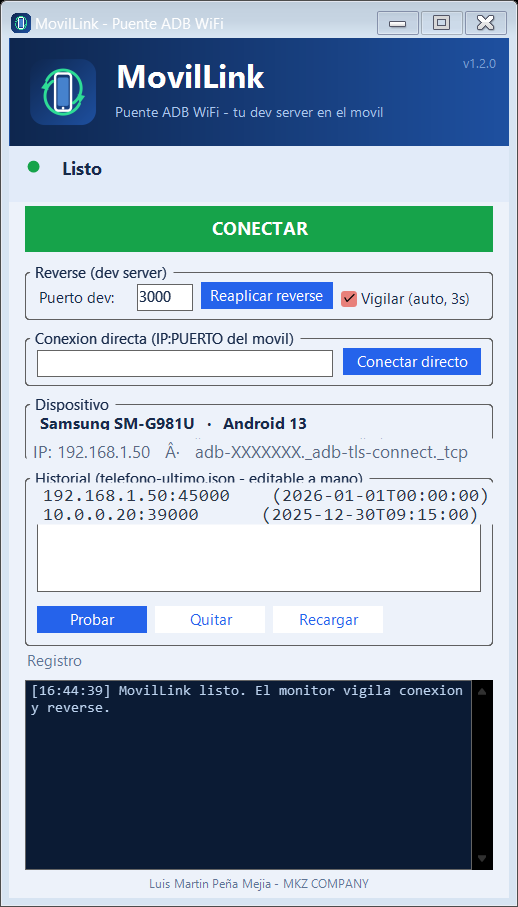
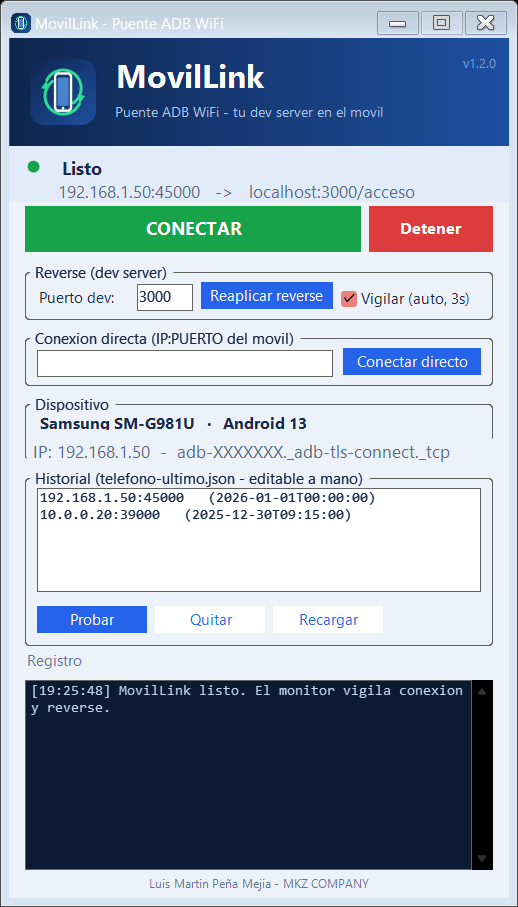
MOVILLINK v1.2.1: BOTON DETENER + DIRECTO CON PRIORIDAD + PURGA MDNS
ARCHIVOS: APP/Interfaz/MovilLink.UI.ps1, APP/Core/MovilLink.Core.ps1, APP/Recursos/captura.png, README.md, CHANGELOG.md
- Boton Detener: cancela el intento y pausa el monitor 60s
- Conexion directa con prioridad: en busy cancela el intento actual y prueba tu endpoint
- Fix bandera cancelar pegada tras Detener (autocancelaba el siguiente intento)
- mDNS podrido: sondea anuncios antes de conectar; purga daemon si todos estan muertos
- Feedback de click rechazado en el registro

ESTADO: COMPLETADO
FECHA: martes 3 de noviembre de 2026, 19:28
AUTOR: MKZ COMPANY

diff --git a/README.md b/README.md
@@ -6,7 +6,7 @@
 ![PowerShell](https://img.shields.io/badge/PowerShell-5.1+-5391FE?style=flat-square&logo=powershell&logoColor=white)
 ![ADB](https://img.shields.io/badge/ADB-WiFi%20(TLS)-1E7A3C?style=flat-square&logo=android&logoColor=white)
 ![Licencia](https://img.shields.io/badge/Licencia-MIT-yellow?style=flat-square)
-![Versión](https://img.shields.io/badge/v1.2.0-release-185E30?style=flat-square)
+![Versión](https://img.shields.io/badge/v1.2.1-release-185E30?style=flat-square)
 ![Hecho en RD](https://img.shields.io/badge/Hecho%20en-Rep%C3%BAblica%20Dominicana%20%F0%9F%87%A9%F0%9F%87%B4-CE1126?style=flat-square)
 
 </div>
@@ -32,7 +32,7 @@ pestaña.
 
 | Vía | Enlace | Para quién |
 |---|---|---|
-| **Release ZIP** | [MovilLink-v1.2.0.zip](https://github.com/luismartin023/movillink/releases/latest) | Todos — la forma recomendada |
+| **Release ZIP** | [MovilLink-v1.2.1.zip](https://github.com/luismartin023/movillink/releases/latest) | Todos — la forma recomendada |
 | **NuGet** | [MovilLink en GitHub Packages](https://github.com/luismartin023/movillink/pkgs/nuget/MovilLink) | `dotnet add package MovilLink` |
 | Code → Download ZIP | Este repo | Si quieres el código fuente completo |
 

diff --git a/CHANGELOG.md b/CHANGELOG.md
@@ -1,5 +1,22 @@
 # CHANGELOG — MovilLink
 
+## v1.2.1 — 2026-11-03
+
+Control del usuario y mDNS podrido:
+
+- **Boton Detener** (rojo, junto a CONECTAR): cancela el intento en curso
+  y pausa el monitor 60s — ventana libre para escribir el endpoint a mano.
+- **Conexion directa con prioridad**: pulsarla estando ocupado cancela el
+  intento actual y prueba tu endpoint automaticamente — el click nunca
+  se pierde.
+- Fix: la bandera de cancelacion quedaba pegada tras Detener y
+  autocancelaba el siguiente intento — ahora se limpia al arrancar.
+- mDNS: los anuncios se sondean antes de conectar (solo se usa el vivo);
+  si todos estan muertos (cache podrido tras cambiar de red) se purga
+  el daemon y se redescubre.
+- Feedback: click durante intento en curso avisa en el registro en vez
+  de ignorarse en silencio.
+
 ## v1.2.0 — 2026-11-02
 
 Tarjeta de dispositivo:
